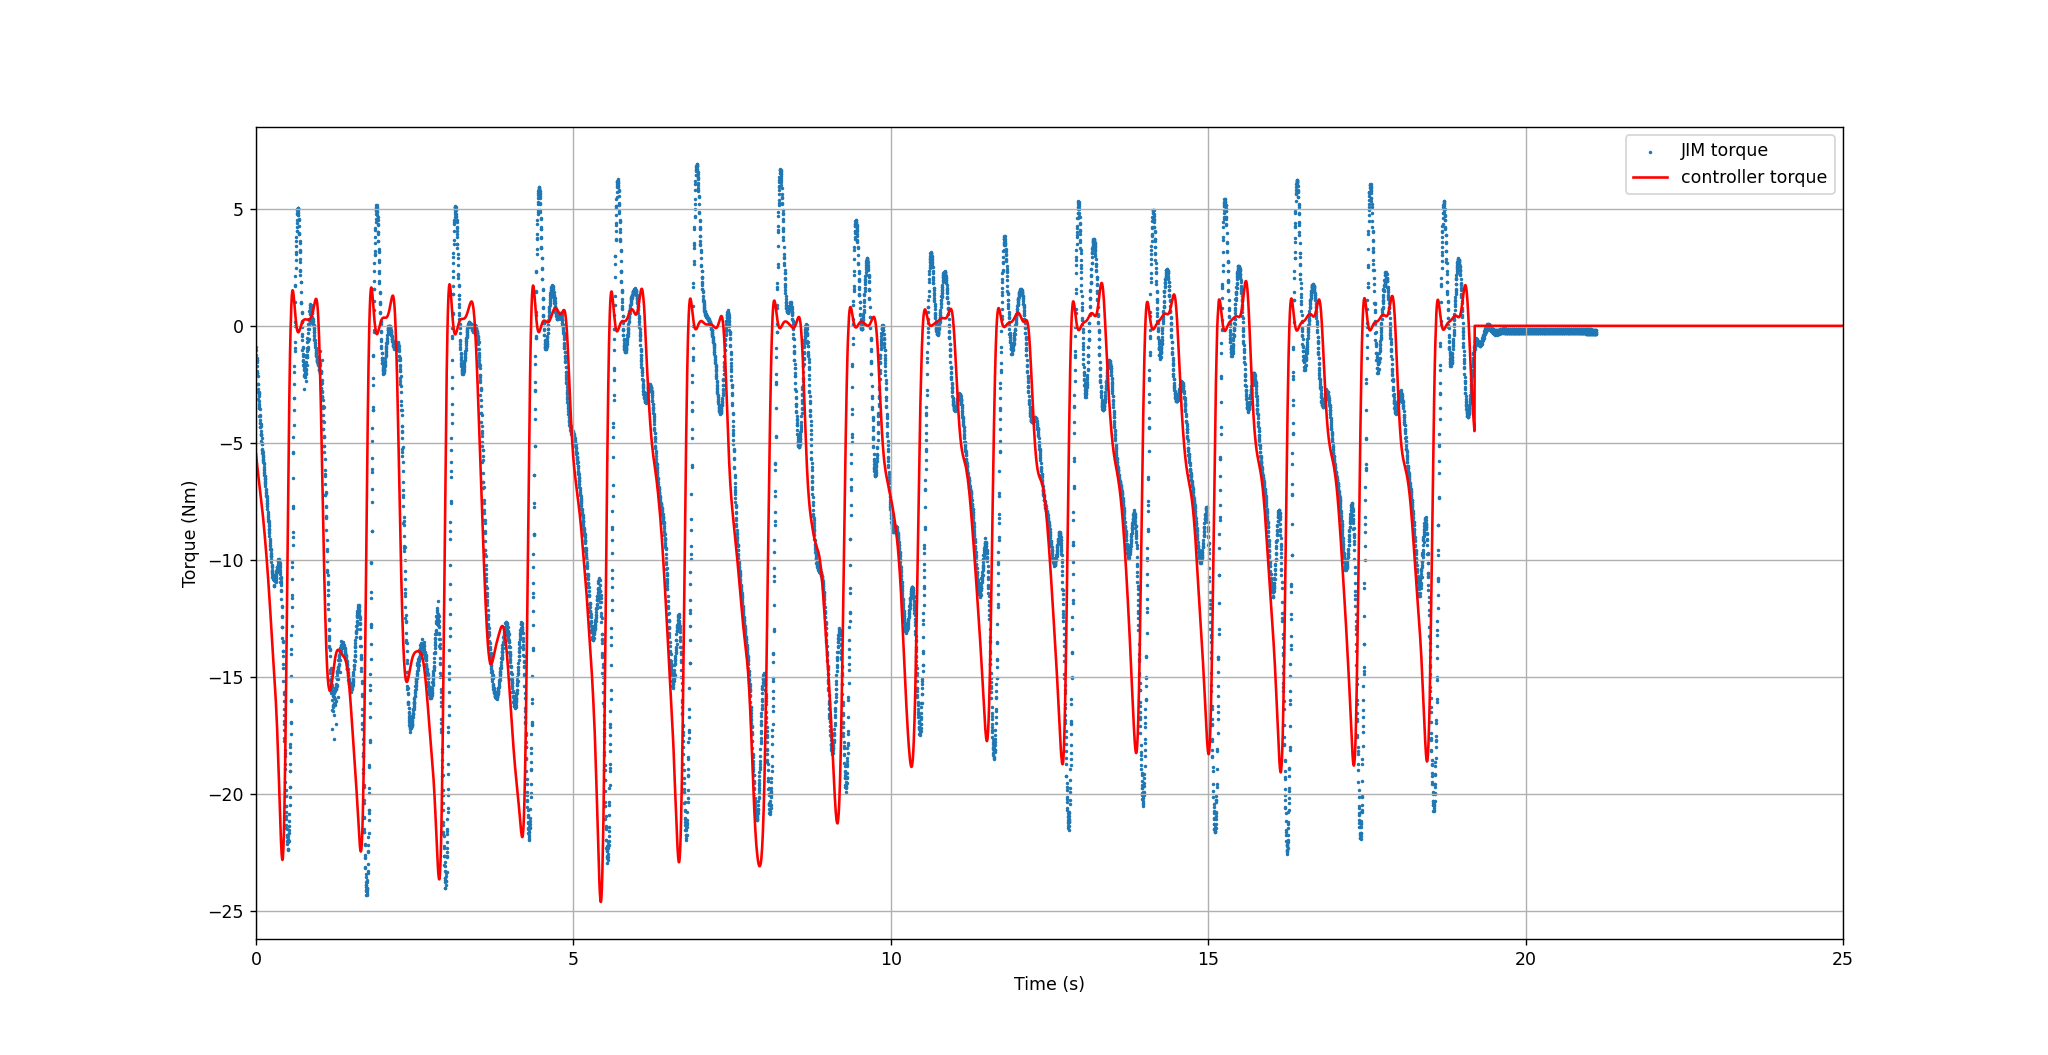
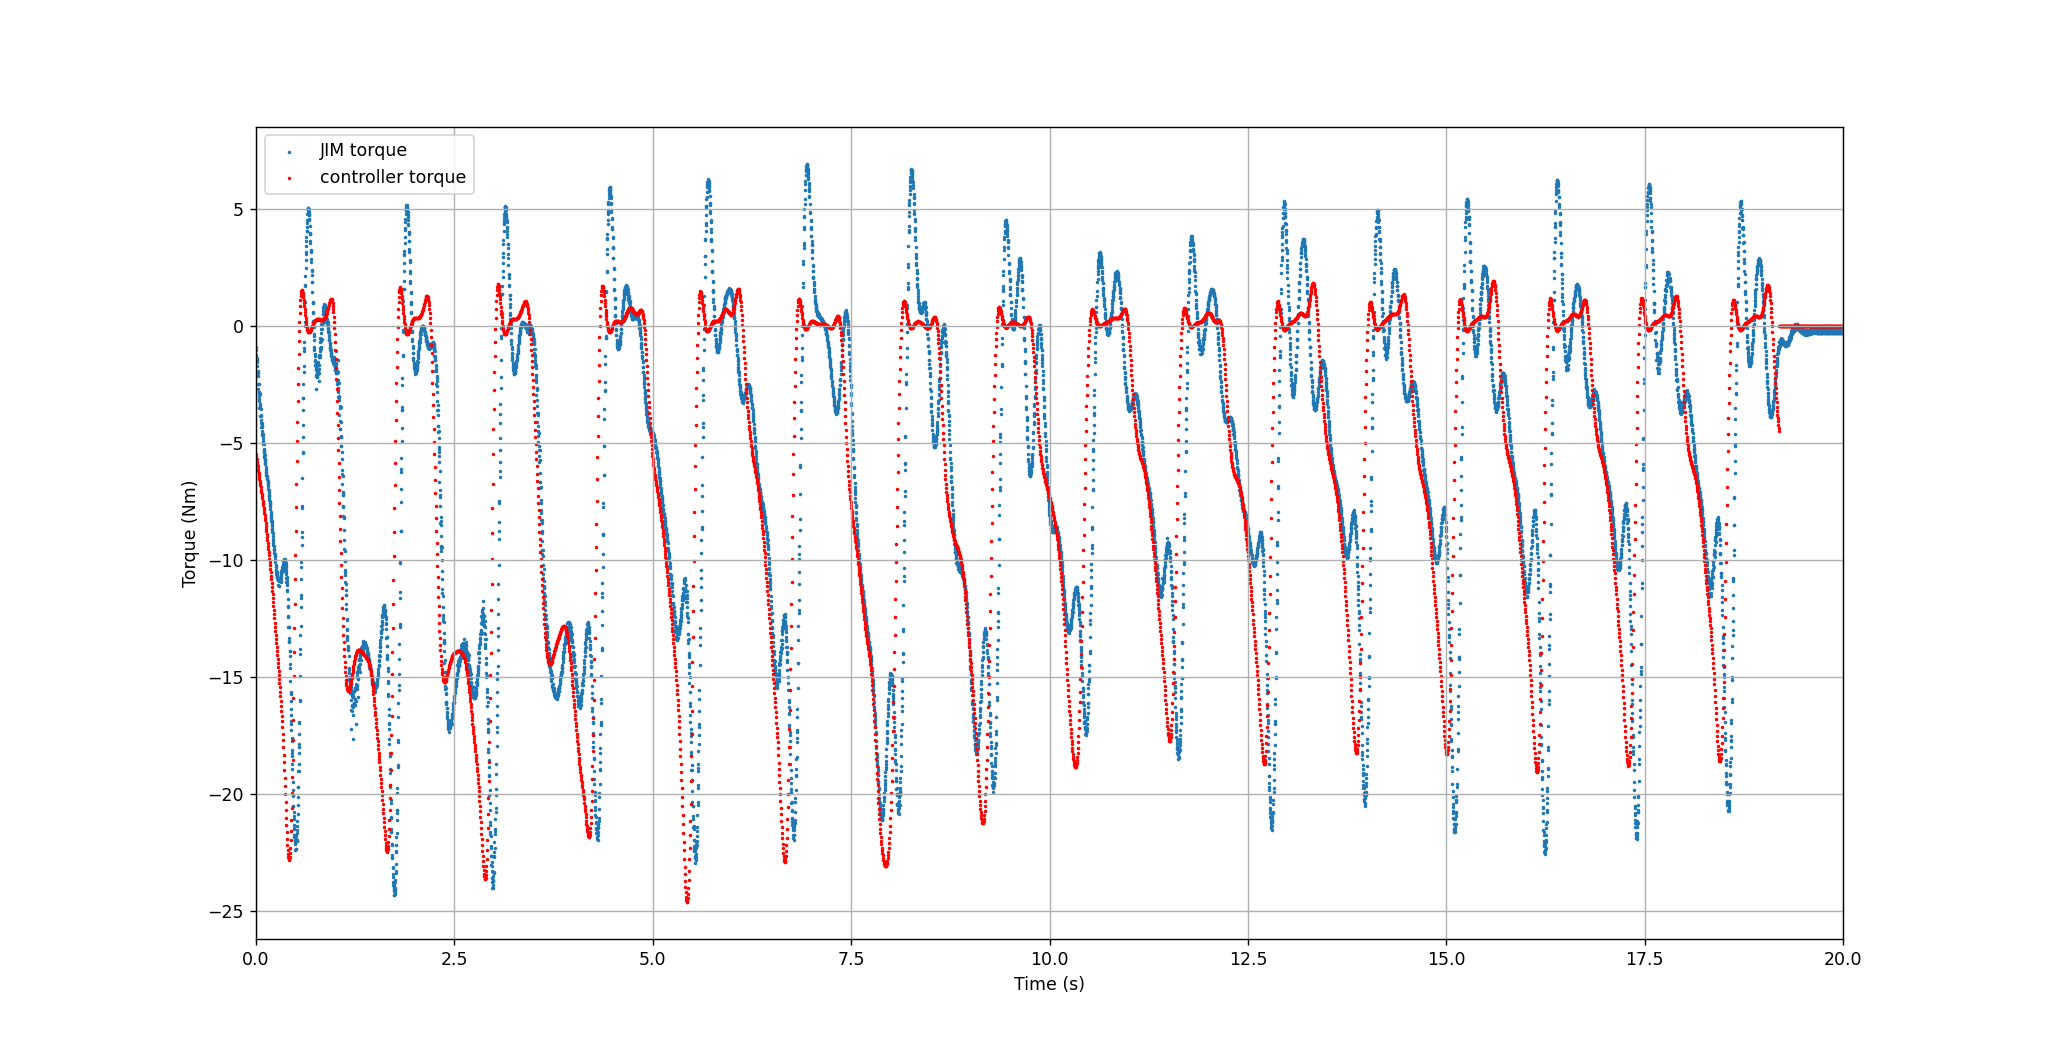
update

diff --git a/plotter.py b/plotter.py
@@ -198,11 +198,12 @@ def load_JIM_controller_avg(dir):
 
         controller_data_resampled = controller_data.resample('0.004S').mean().interpolate()
 
-        adjusted_time, adjusted_torque = proc.adjusted_data(controller_data_resampled.index, controller_data_resampled["desire_torque"], 1000, 0.5)
-       
+        _, _, start_index = proc.adjusted_data(controller_data_resampled.index, controller_data_resampled["desire_torque"], 1000, 0.5)
         df = pd.DataFrame({
-            'Time': adjusted_time,
-            'Torque': adjusted_torque
+            'Time': controller_data_resampled.index[start_index:]-controller_data_resampled.index[start_index],
+            'Desire Torque': controller_data_resampled["desire_torque"][start_index:],
+            'Coommanded Torque': controller_data_resampled["commanded_torque"][start_index:],
+            'Passive Torque': controller_data_resampled["passive_torque"][start_index:]
         }).set_index('Time')
         csv_dataframes.append(df)
 
@@ -216,7 +217,9 @@ def load_JIM_controller_avg(dir):
     EXO_combined_df.reset_index(inplace=True)
 
     csv_combined_df = pd.DataFrame({
-        'Torque': csv_combined_df.mean(axis=1)
+        'Desire Torque': csv_combined_df.filter(like='Desire Torque').mean(axis=1),
+        'Coommanded Torque': csv_combined_df.filter(like='Coommanded Torque').mean(axis=1),
+        'Passive Torque': csv_combined_df.filter(like='Passive Torque').mean(axis=1),
     })
     csv_combined_df.reset_index(inplace=True)
     csv_combined_df['Time'] = (csv_combined_df['Time'] - csv_combined_df['Time'][0]) / pd.Timedelta('1s')
@@ -229,9 +232,9 @@ def plot_JIM_vs_controller(EXO_data, csv_data, PI=False):
         plt.figure(figsize=(8, 6), dpi=125)
 
         plt.scatter(EXO_data['Time'], EXO_data['Torque'], label='JIM torque', s=1)
-        plt.plot(csv_data['Time'], csv_data['Torque'], label='controller torque', color='red')
+        plt.scatter(csv_data['Time'], csv_data['Desire Torque'], label='controller torque', color='red', s=1)
 
-        plt.xlim(0, 25)
+        plt.xlim(0, 20)
         plt.xlabel('Time (s)')
         plt.ylabel('Torque (Nm)')
         plt.legend()
@@ -240,9 +243,12 @@ def plot_JIM_vs_controller(EXO_data, csv_data, PI=False):
     else:
         plt.figure(figsize=(8, 6), dpi=125)
 
-        plt.scatter(EXO_data['Time'], EXO_data['Torque'], label='JIM torque', s=1)
+        plt.scatter(csv_data['Time'], csv_data['Desire Torque'], label='desire torque', s=1)
+        plt.scatter(csv_data['Time'], csv_data['Passive Torque'], label='passive torque', s=1)
+        plt.scatter(csv_data['Time'], csv_data['Coommanded Torque'], label='commanded torque', s=1)
 
-        plt.xlim(0, 25)
+        plt.xlim(0, 20)
+        plt.ylim(0, 10)
         plt.xlabel('Time (s)')
         plt.ylabel('Torque (Nm)')
         plt.legend()
@@ -252,4 +258,4 @@ def plot_JIM_vs_controller(EXO_data, csv_data, PI=False):
 
 dir_path = "I:/My Drive/Locomotor/ExoBoot/data_traj_100%_controller/"
 JIM_data_avg, controller_data_avg = load_JIM_controller_avg(dir_path)
-plot_JIM_vs_controller(JIM_data_avg, controller_data_avg)
+plot_JIM_vs_controller(JIM_data_avg, controller_data_avg, PI=True)

diff --git a/EB51_controller_traj.py b/EB51_controller_traj.py
@@ -110,7 +110,12 @@ class Controller():
                     des_torque = 0
             
             passive_torque = proc.get_passive_torque(current_angle, angular_speed, self.speed_threshold)
-            command_torque = -min(abs(des_torque - passive_torque), MAX_TORQUE)
+
+            if command_torque < 0:
+                command_torque = -min(abs(des_torque - passive_torque), MAX_TORQUE)
+            else:
+                command_torque = 0
+            
             self.dev.set_output_torque_newton_meters(command_torque)
 
             qaxis_curr = self.dev.get_current_qaxis_amps()

diff --git a/processor.py b/processor.py
@@ -14,7 +14,7 @@ def adjusted_data(x, y, initial_average_range, threshold):
 
     adjusted_time = [t - x[start_index] for t in x[start_index:]]
     adjusted_angle = y[start_index:]
-    return adjusted_time, adjusted_angle
+    return adjusted_time, adjusted_angle, start_index
 
 
 def fft(time, data):
